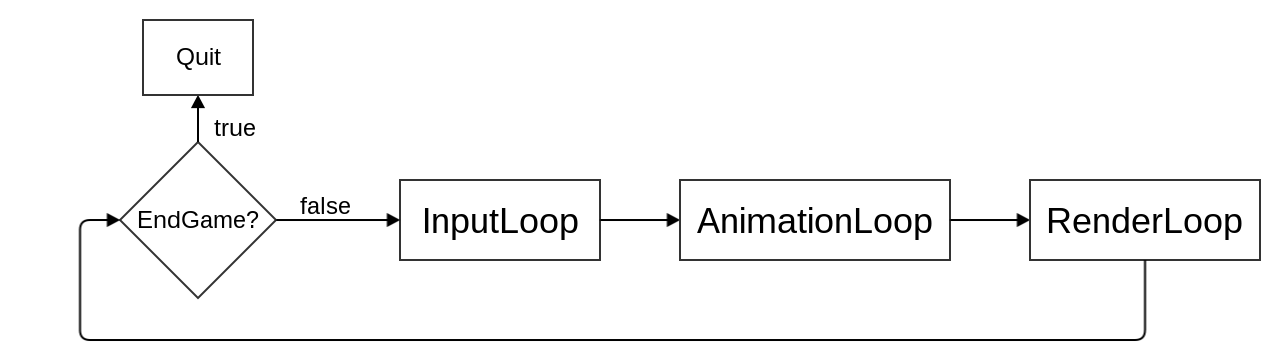
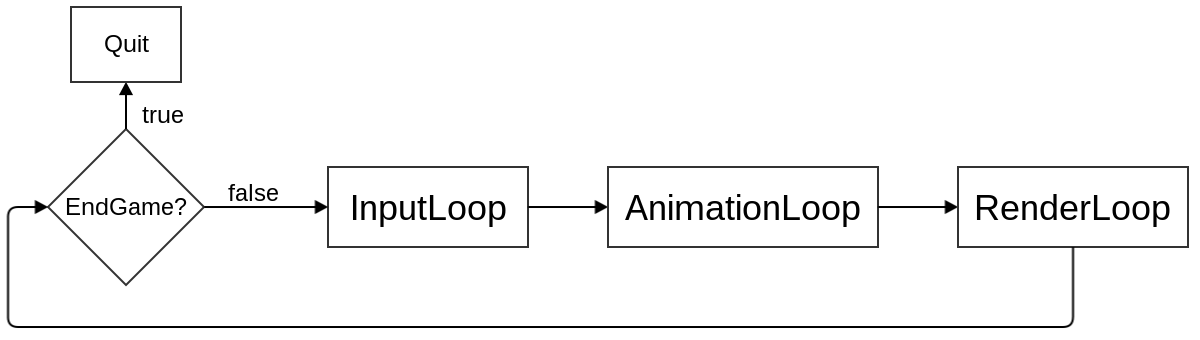
Doku: Spielarchitektur / SFML Buch

diff --git a/doc/Dokumentation/dokumentation.tex b/doc/Dokumentation/dokumentation.tex
@@ -385,31 +385,56 @@ Wir haben ein Punktesystem eingeführt. Jeder Schatz gibt einem 10 Punkte. In de
 Wir haben auch eine Zeit eingebaut. So läuft die Zeit Obenlinks langsam herunter und falls man nicht durch das Level gekommen ist, Fällt man aus dem Spiel ins Gameover. Die zur verfügung stehenden Zeit wird in der Leveldatei geschrieben.	
  	
 
-\subsection{Spielarchitektur}
+\subsection{Wahl der Spielarchitektur}
 Als wir die Grundlagen von C++ zusammen erarbeitet hatten, mussten wir natürlich vorausplanen, wie wir das Spiel programmieren würden.
-Wir kannten zwar Verzweigungen, Schleifen und Funktionen, aber wie können wir damit ein Spiel entwickeln? Im Kopf hatten wir folgende Struktur,
-die wir mit der Zeit auch implementiert hatten:\\
+Wir kannten zwar Verzweigungen, Schleifen und Funktionen, aber wie können wir damit ein Spiel entwickeln? Auf Seite 106 in \cite{sfml_gamedev} 
+wird eine parallele Spielarchitektur erwähnt. Wir fanden die dort beschriebene Spielarchitektur aber unnötig komplizierter und erarbeiteten uns
+dann eine andere Struktur. Daraus resultierte die Struktur in Abbildung \ref{fig:seriell}.
+die wir mit der Zeit auch implementiert hatten.\\
 \begin{figure}[h]
 \centering
 \includegraphics[scale=0.3]{img/gameloops.png}
-\caption{Die Spielarchitektur}
+\caption{Unsere serielle Spielarchitektur}
+\label{fig:seriell}
 \end{figure}
 
-\subsubsection{EndGame}
-\begin{itemize}
-\item ESC gedrückt?
-\item Gameover?
-\item Alle Schätze eingesammelt?
-\end{itemize}
+\subsubsection{Serielle Architektur}
+Die serielle Architektur unterteilt sich in vier Teile, die immer vollständig und immer hintereinander ablaufen. Die Funktionsweise
+und die Aufgaben der Teile werden hier kurz erläutert:\\
+\\
+\textbf{EndGame?}
+Diese Abfrage überprüfte nur, ob das Spiel beendet werden muss, sei es aufgrund eines Fehlers im Spiel
+oder weil der Benutzer das Fenster schliessen wollte.\\
+\\
+\textbf{InputLoop}
+Dieser Teil ist dafür zuständig, die Eingaben des Spielers zu einzulesen, und aufgrund von den Eingaben Aktionen auszulösen. Wenn zum Beispiel
+der Spieler bei einem Schatz in der Nähe steht, und die Taste $[E]$ drückt, werden dem Spieler 10 Punkte gutgeschrieben und der Schatz muss beim
+RenderLoop entfernt werden, damit er beim nächsten Durchgang verschwindet. Steht der Spieler bei einer Türe und drückt $[E]$, dann wird die Animation
+der Türe gestartet und die Mauer der Türe muss umplatziert werden. Wenn sich der Spieler in den Strahl einer Lichtschranke bewegt, wird das Level
+\q{Game Over} geladen.\\
+\\
+\textbf{AnimationLoop}
+Hier wird für jede Animation überprüft, ob sie überhaupt aktiv ist, und wenn ja, ob seit dem letzten Durchgang bereits die für jede Animation
+eigene Zeit $\Delta t$ verstrichen ist, damit dem Sprite die nächste Textur zugeordnet werden kann.\\
+\\
+\textbf{RenderLoop}
+Die einzelnen Sprites werden in das SFML Fenster gezeichnet, und SFML wird angewiesen das Fenster neu auf den Bildschirm zu \q{zeichnen}.
 
-\subsubsection{InputLoop}
-Eingaben lesen
-
-\subsubsection{AnimationLoop}
-Alle Animationen ausführen
-
-\subsubsection{RenderLoop}
-Alles auf den Bildschirm zeichnen
+\subsubsection{Parallele Architektur}
+SFML unterstüzt mit der \textit{Thread}-Klasse eine plattformübergreifende Implementierung
+von Systemthreads. Wenn ein Thread erstellt wird, springt das Programm an diesem Punkt
+in eine Funktion und führt diese parallel zum Rest des Programmes aus. Der grosse Vorteil,
+der sich dadurch ergibt, ist sicher die Performance, also die Ausführgeschwindigkeit. Die
+parallele Architektur würde sich demnach in drei bis vier Teile aufgabeln, je nachdem, ob man die AnimationLoop
+und die RenderLoop in jeweils einzelne Threads nimmt oder nicht. Da wir
+nicht wussten, dass SFML so effizient arbeiten würde, und unser Spiel auch ohne parallelen Code
+ohne Ruckler spielbar wäre, hatten wir unsere Spielarchitektur ursprünglich so geplant:
+\\
+\begin{figure}[h]
+\centering
+\includegraphics[scale=0.3]{img/threads.png}
+\caption{Die parallele Spielarchitektur}
+\end{figure}
 
 
 \section{Probleme und Lösungen} 	
